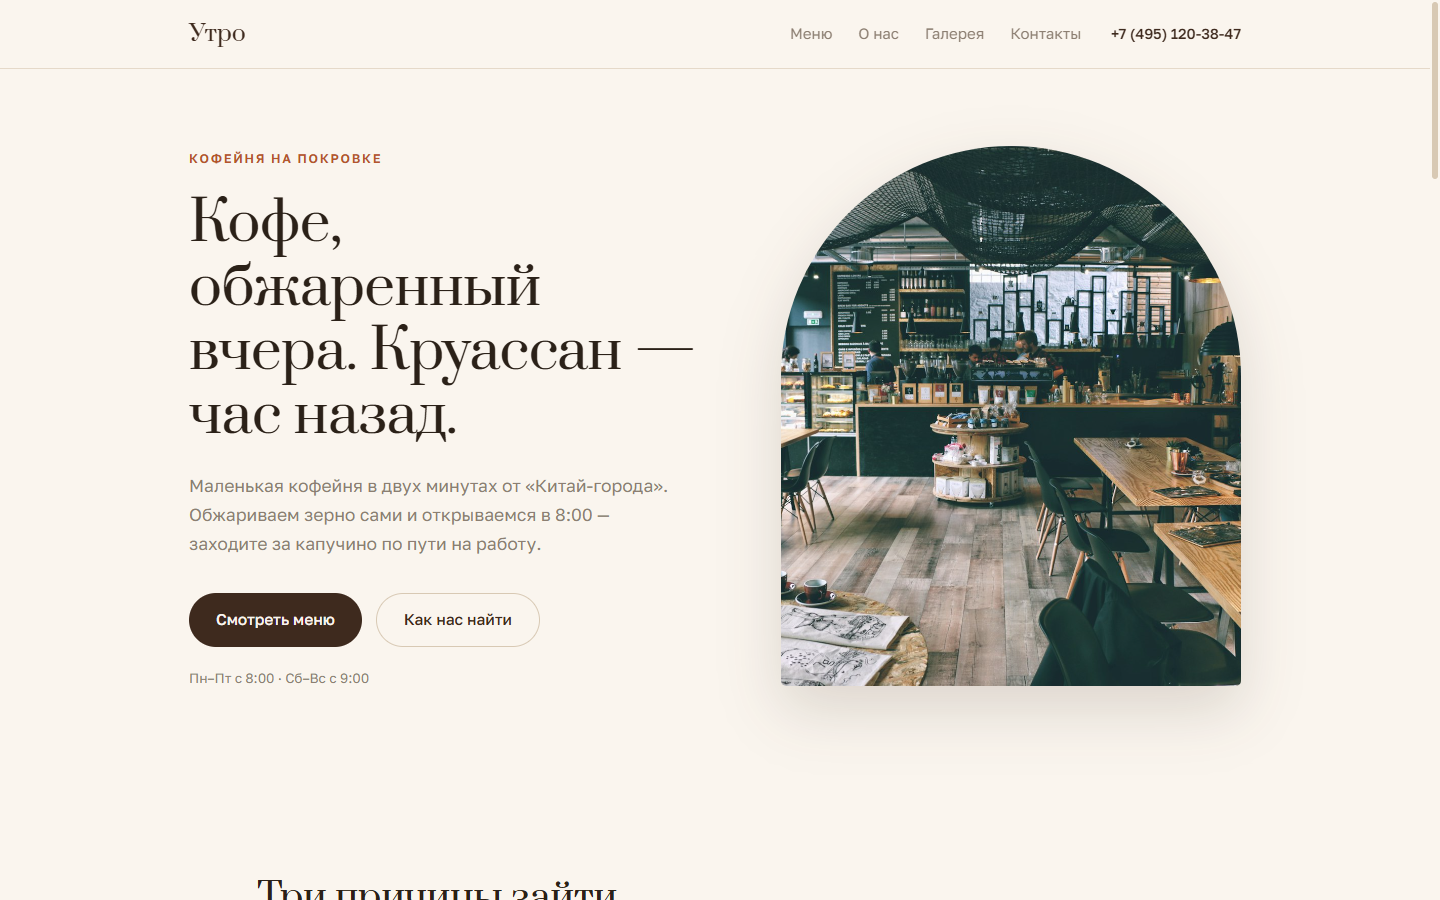
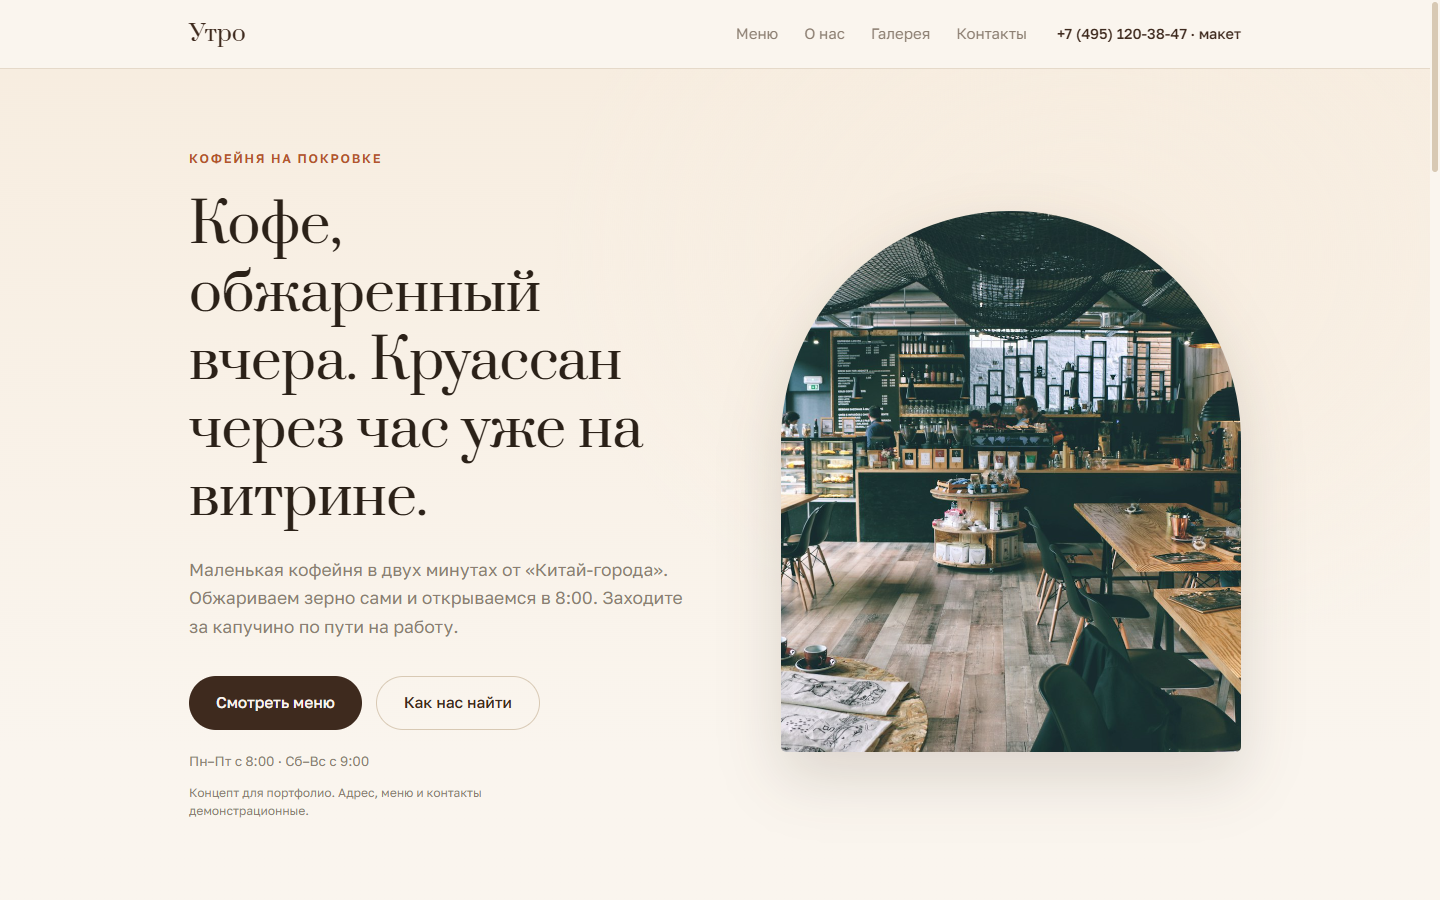
warmer hero, row hover on price list

diff --git a/css/style.css b/css/style.css
@@ -1,5 +1,3 @@
-/* Утро — кофейня на Покровке. Руками, без конструкторов. */
-
 *,
 *::before,
 *::after {
@@ -77,8 +75,6 @@ img {
 .accent {
   color: var(--accent);
 }
-
-/* ─── навигация ─── */
 
 .nav {
   position: sticky;
@@ -158,10 +154,11 @@ img {
   white-space: nowrap;
 }
 
-/* ─── hero ─── */
-
 .hero {
   padding: 74px 0 96px;
+  background:
+    radial-gradient(52% 68% at 76% 22%, rgba(247, 237, 224, .95) 0%, rgba(247, 237, 224, 0) 72%),
+    linear-gradient(180deg, #F7EDE0 0%, var(--bg) 80%);
 }
 
 .hero-grid {
@@ -245,7 +242,6 @@ img {
   color: var(--muted);
 }
 
-/* арочное фото — фирменный приём */
 .hero-photo img {
   width: 100%;
   aspect-ratio: 4 / 4.7;
@@ -253,8 +249,6 @@ img {
   border-radius: 999px 999px 22px 22px;
   box-shadow: 0 24px 60px rgba(62, 42, 30, .16);
 }
-
-/* ─── секции: общее ─── */
 
 section {
   padding: 92px 0;
@@ -280,8 +274,6 @@ section {
   font-size: clamp(1.7rem, 3.2vw, 2.3rem);
 }
 
-/* ─── о нас: три факта ─── */
-
 .facts {
   display: grid;
   grid-template-columns: repeat(3, 1fr);
@@ -293,12 +285,13 @@ section {
   border: 1px solid var(--line);
   border-radius: 20px;
   padding: 30px 28px;
-  transition: transform .25s cubic-bezier(.4, 0, .2, 1), box-shadow .25s ease;
+  transition: transform .25s cubic-bezier(.4, 0, .2, 1), box-shadow .25s ease, border-color .25s ease;
 }
 
 .fact:hover {
   transform: translateY(-4px);
-  box-shadow: 0 16px 40px rgba(62, 42, 30, .08);
+  border-color: #DCC9AF;
+  box-shadow: 0 16px 40px rgba(62, 42, 30, .1);
 }
 
 .fact-num {
@@ -318,8 +311,6 @@ section {
   font-size: 15px;
   color: var(--muted);
 }
-
-/* ─── меню: типографский прайс ─── */
 
 .menu {
   background: var(--sand);
@@ -348,15 +339,27 @@ section {
   align-items: baseline;
   padding: 11px 0;
   position: relative;
+  border-radius: 10px;
+  transition: background-color .25s ease, padding .3s cubic-bezier(.4, 0, .2, 1);
 }
 
-/* точечный лидер между названием и ценой */
+.price-row:hover {
+  background-color: #F9F4EA;
+  padding-left: 12px;
+  padding-right: 12px;
+}
+
 .price-row dt {
   background: var(--sand);
   padding-right: 8px;
   z-index: 1;
   font-size: 16.5px;
-  transition: color .2s ease;
+  transition: color .2s ease, background-color .25s ease;
+}
+
+.price-row:hover dt,
+.price-row:hover dd {
+  background-color: #F9F4EA;
 }
 
 .price-row:hover dt {
@@ -371,6 +374,7 @@ section {
   font-weight: 500;
   color: var(--espresso);
   white-space: nowrap;
+  transition: background-color .25s ease;
 }
 
 .price-row::after {
@@ -380,6 +384,12 @@ section {
   right: 0;
   bottom: 14px;
   border-bottom: 1px dotted #C4B29A;
+  transition: left .3s cubic-bezier(.4, 0, .2, 1), border-color .25s ease;
+}
+
+.price-row:hover::after {
+  left: 12px;
+  border-bottom-color: #AC9377;
 }
 
 .menu-note {
@@ -388,8 +398,6 @@ section {
   color: var(--muted);
   font-style: italic;
 }
-
-/* ─── акция ─── */
 
 .promo {
   margin-top: 56px;
@@ -418,8 +426,6 @@ section {
   max-width: 46ch;
 }
 
-/* ─── галерея ─── */
-
 .gallery-grid {
   display: grid;
   grid-template-columns: repeat(12, 1fr);
@@ -447,8 +453,6 @@ section {
 .g-item:hover img {
   transform: scale(1.045);
 }
-
-/* ─── отзывы ─── */
 
 .rating {
   margin-left: auto;
@@ -489,8 +493,6 @@ section {
   color: var(--muted);
   margin-top: auto;
 }
-
-/* ─── контакты ─── */
 
 .contacts-grid {
   display: grid;
@@ -550,8 +552,6 @@ section {
   border: 0;
 }
 
-/* ─── футер ─── */
-
 .footer {
   border-top: 1px solid var(--line);
   padding: 26px 0;
@@ -576,8 +576,6 @@ section {
   color: var(--muted);
 }
 
-/* ─── появление при скролле ─── */
-
 .reveal {
   opacity: 0;
   transform: translateY(20px);
@@ -600,8 +598,6 @@ section {
     scroll-behavior: auto;
   }
 }
-
-/* ─── адаптив ─── */
 
 @media (max-width: 960px) {
   .hero {
@@ -633,7 +629,6 @@ section {
     grid-template-columns: 1fr;
   }
 
-  /* шапка плотнее, чтобы ссылки влезали на планшетной ширине */
   .nav-inner {
     gap: 20px;
   }
@@ -642,7 +637,6 @@ section {
     gap: 18px;
   }
 
-  /* телефон убираем на планшете: пять ссылок + телефон в одну строку не помещаются */
   .nav-phone {
     display: none;
   }
@@ -697,7 +691,6 @@ section {
     justify-content: center;
   }
 
-  /* арочное фото по центру, а не прижато к левому краю */
   .hero-photo {
     margin: 0 auto;
   }
@@ -720,7 +713,6 @@ section {
     grid-template-columns: 1fr 1fr;
   }
 
-  /* обычные фото — в одну ячейку, иначе span 5 развозит сетку вширь */
   .g-item {
     grid-column: span 1;
   }

diff --git a/index.html b/index.html
@@ -3,7 +3,7 @@
 <head>
   <meta charset="UTF-8">
   <meta name="viewport" content="width=device-width, initial-scale=1.0">
-  <title>Утро — кофейня на Покровке</title>
+  <title>Утро: кофейня на Покровке</title>
   <meta name="description" content="Концепт-сайт кофейни «Утро» на Покровке. Меню, галерея, адрес и часы работы.">
   <link rel="canonical" href="https://hmsusbusas-png.github.io/utro-coffee/">
   <meta property="og:type" content="website">
@@ -37,7 +37,6 @@
   </header>
 
   <main>
-    <!-- hero -->
     <section class="hero" id="top">
       <div class="container hero-grid">
         <div class="hero-text">
@@ -57,11 +56,10 @@
         </div>
 
         <div class="hero-photo">
-          <img src="assets/img/guests.jpg" alt="Светлый зал кофейни «Утро» — гости за столиками">
+          <img src="assets/img/guests.jpg" alt="Светлый зал кофейни «Утро», гости за столиками">
         </div>
       </div>
     </section>
-    <!-- о нас -->
     <section class="about" id="about">
       <div class="container">
         <div class="section-head">
@@ -88,7 +86,6 @@
       </div>
     </section>
 
-    <!-- меню -->
     <section class="menu" id="menu">
       <div class="container">
         <div class="section-head">
@@ -129,7 +126,6 @@
         </div>
       </div>
     </section>
-    <!-- галерея -->
     <section class="gallery" id="gallery">
       <div class="container">
         <div class="section-head">
@@ -145,7 +141,6 @@
       </div>
     </section>
 
-    <!-- отзывы -->
     <section class="reviews">
       <div class="container">
         <div class="section-head">
@@ -159,18 +154,17 @@
             <cite>Анна, работает рядом</cite>
           </blockquote>
           <blockquote class="review">
-            <p>«Спасают меня перед парами. Раф с овсяным — топ. Единственное, в обед бывает очередь, но движется быстро.»</p>
+            <p>«Спасают меня перед парами. Раф с овсяным просто топ. Единственное, в обед бывает очередь, но движется быстро.»</p>
             <cite>Дмитрий, студент</cite>
           </blockquote>
           <blockquote class="review">
-            <p>«Приятное место для встреч — не шумно, свет тёплый, розетки есть. Чизкейк честно домашний, не из коробки.»</p>
+            <p>«Приятное место для встреч: не шумно, свет тёплый, розетки есть. Чизкейк честно домашний, не из коробки.»</p>
             <cite>Мария, фрилансер</cite>
           </blockquote>
         </div>
       </div>
     </section>
 
-    <!-- контакты -->
     <section class="contacts" id="contacts">
       <div class="container">
         <div class="section-head">
@@ -186,7 +180,7 @@
               </div>
               <div class="info-row">
                 <dt>Часы</dt>
-                <dd>Пн–Пт — 8:00–21:00<br>Сб–Вс — 9:00–22:00</dd>
+                <dd>Пн–Пт: 8:00–21:00<br>Сб–Вс: 9:00–22:00</dd>
               </div>
               <div class="info-row">
                 <dt>Телефон</dt>
@@ -194,7 +188,7 @@
               </div>
               <div class="info-row">
                 <dt>Соцсети</dt>
-                <dd><span>Социальные ссылки в этой версии — макет</span></dd>
+                <dd><span>Социальные ссылки в этой версии не подключены</span></dd>
               </div>
             </dl>
           </div>

diff --git a/js/main.js b/js/main.js
@@ -1,4 +1,3 @@
-// Утро: появление блоков и небольшая мобильная навигация.
 const nav = document.querySelector('.nav');
 const burger = document.getElementById('nav-burger');
 

diff --git a/README.md b/README.md
@@ -1,6 +1,6 @@
-# Утро — лендинг кофейни
+# Утро: лендинг кофейни
 
-Лендинг маленькой кофейни в светлых тонах: тёплая кремовая палитра, типографский прайс-лист с точками-лидерами. Кофейня вымышленная, это концепт для портфолио — но структура, тексты и цены такие, какие получил бы реальный заказчик.
+Лендинг маленькой кофейни в светлых тонах: тёплая кремовая палитра, типографский прайс-лист с точками-лидерами. Кофейня вымышленная, это концепт для портфолио, но структура, тексты и цены такие, какие получил бы реальный заказчик.
 
 **Живой сайт:** [hmsusbusas-png.github.io/utro-coffee](https://hmsusbusas-png.github.io/utro-coffee/)
 
@@ -8,7 +8,7 @@
 
 ## Что внутри
 
-- Сплит-hero с арочным фото — фирменная деталь макета
+- Сплит-hero с арочным фото, фирменная деталь макета
 - Блок «три факта» вместо шаблонных «почему выбирают нас»
 - Меню как типографский прайс-лист: две колонки, точки-лидеры между названием и ценой, без карточек
 - Галерея со смещённой сеткой, отзывы, акция-стикер
@@ -29,8 +29,8 @@ python -m http.server 8000
 ## Честно об ограничениях
 
 - Кофейня, адрес и телефон вымышленные, контакты демонстрационные
-- Фотографии — стоковые с Unsplash (свободное использование), лежат локально в `assets/img/`
-- Яндекс-карта — обычный встраиваемый виджет, своей формы на сайте нет
+- Фотографии стоковые, с Unsplash (свободное использование), лежат локально в `assets/img/`
+- Яндекс-карта: обычный встраиваемый виджет, своей формы на сайте нет
 
 ## Структура
 
@@ -52,4 +52,4 @@ HTML, CSS и немного ванильного JavaScript. Без фреймв
 
 ## EN
 
-Landing page for a fictional coffee shop — a portfolio concept. Light minimalism, warm cream palette, a typographic price list with dot leaders. Vanilla HTML/CSS/JS, no build step: open `index.html` or run `python -m http.server 8000`. Live: https://hmsusbusas-png.github.io/utro-coffee/
+Landing page for a fictional coffee shop, a portfolio concept. Light minimalism, warm cream palette, a typographic price list with dot leaders. Vanilla HTML/CSS/JS, no build step: open `index.html` or run `python -m http.server 8000`. Live: https://hmsusbusas-png.github.io/utro-coffee/
